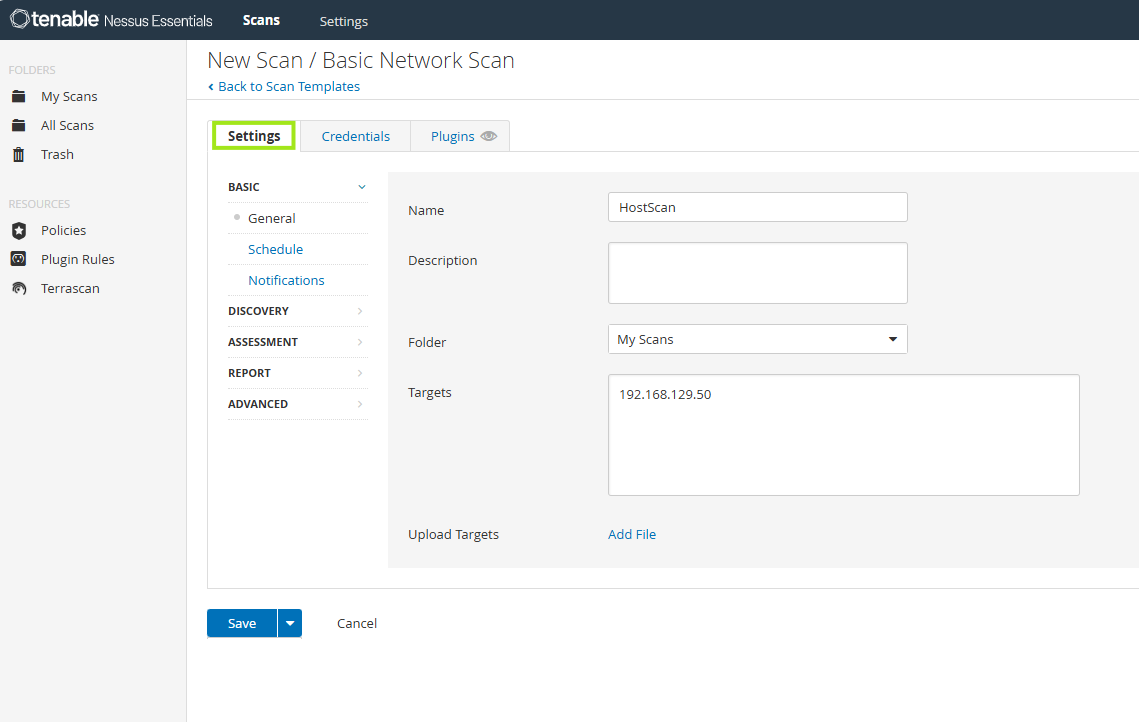
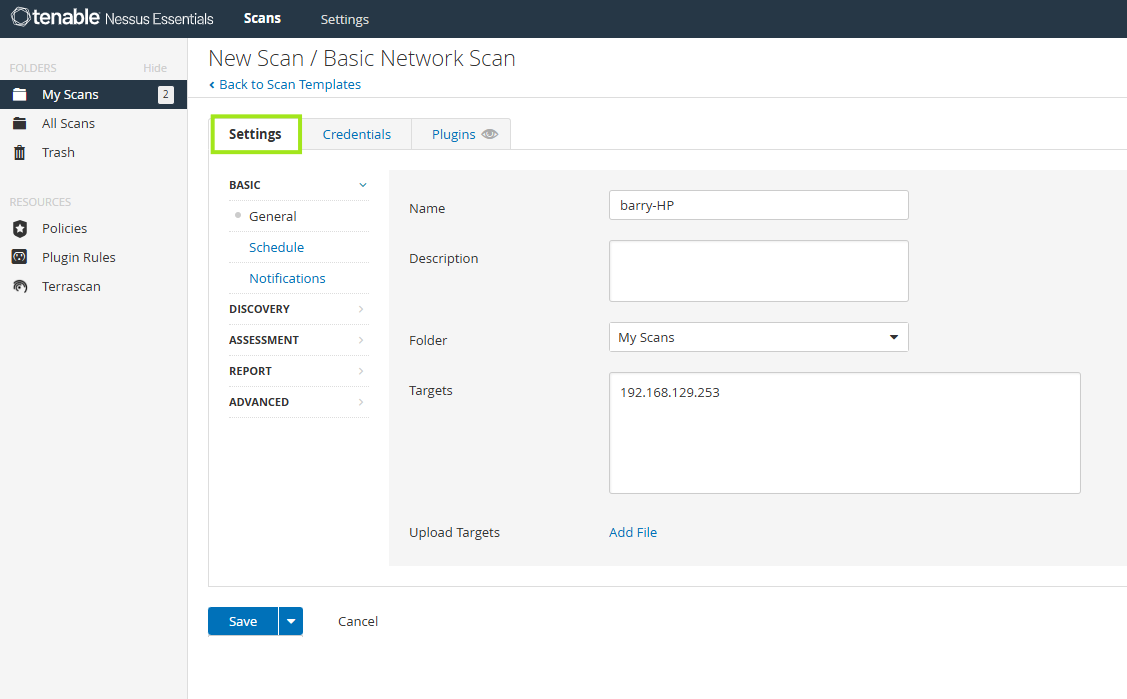
Vulnerability

diff --git a/Vulnerability/Nessus/README.md b/Vulnerability/Nessus/README.md
@@ -3,23 +3,54 @@
 ```sh
 docker pull tenable/nessus:latest-ubuntu
 
-docker volume create nessus_data 
-docker run -d --name nessus --hostname nessus -v nessus_data:/opt/nessus -p 8834:8834 tenable/nessus:latest-ubuntu
+docker volume create nessus_data
 
-https://localhost:8834
+docker run -d \
+  --name nessus \
+  --hostname nessus \
+  -v nessus_data:/opt/nessus \
+  -p 8834:8834 \
+  tenable/nessus:latest-ubuntu
+
+https://<IP>:8834
 ```
 
-```sh
-docker pull immauss/openvas:latest
-docker volume create openvas_data
-docker run -d --name openvas --hostname openvas -v openvas_data:/data -p 9392:9392 immauss/openvas:latest
-```
+![Nessus](/Vulnerability/Nessus/assets/01.png)
 
-```sh
-docker pull splunk/splunk:latest
+![Nessus](/Vulnerability/Nessus/assets/02.png)
 
-docker volume create splunk_etc
-docker volume create splunk_var
+![Nessus](/Vulnerability/Nessus/assets/03.png)
 
-docker run -d --name splunk --hostname splunk-yt-indexer -p 8000:8000 -e SPLUNK_START_ARGS="--accept-license" -e SPLUNK_PASSWORD="test1234" -v splunk_etc:/opt/splunk/etc -v splunk_var:/opt/splunk/var splunk/splunk:latest
-```
+![Nessus](/Vulnerability/Nessus/assets/04.png)
+
+![Nessus](/Vulnerability/Nessus/assets/05.png)
+
+![Nessus](/Vulnerability/Nessus/assets/06.png)
+
+![Nessus](/Vulnerability/Nessus/assets/07.png)
+
+# Host Scan
+
+![Nessus](/Vulnerability/Nessus/assets/08.png)
+
+![Nessus](/Vulnerability/Nessus/assets/09.png)
+
+![Nessus](/Vulnerability/Nessus/assets/10.png)
+
+![Nessus](/Vulnerability/Nessus/assets/11.png)
+
+![Nessus](/Vulnerability/Nessus/assets/12.png)
+
+![Nessus](/Vulnerability/Nessus/assets/12-1.png)
+
+# Network Scan
+
+![Nessus](/Vulnerability/Nessus/assets/13.png)
+
+![Nessus](/Vulnerability/Nessus/assets/14.png)
+
+## Useful Resources
+
+- CVE Details – Vulnerability Database [https://www.cvedetails.com/](https://www.cvedetails.com/)
+- Tenable Nessus Documentation [https://docs.tenable.com/nessus/Content/GettingStarted.htm](https://docs.tenable.com/nessus/Content/GettingStarted.htm)
+- Tenable Nessus Docker Hub [https://hub.docker.com/r/tenable/nessus](https://hub.docker.com/r/tenable/nessus)

diff --git a/Vulnerability/OpenVAS/README.md b/Vulnerability/OpenVAS/README.md
@@ -1,16 +1,63 @@
 # OpenVAS Scanner
 
-# OpenVAS Installation
+- Official Documentation: [https://greenbone.github.io/docs/latest/22.4/container/index.html](https://greenbone.github.io/docs/latest/22.4/container/index.html)
+
+# OpenVAS Installation via Docker
 
 ```sh
-sudo apt install gvm
+mkdir openvas && cd openvas
+
+curl -f -L https://greenbone.github.io/docs/latest/_static/docker-compose-22.4.yml -o docker-compose.yml
+
+nano docker-compose.yml
+ports:
+  # Change this line:
+  - "127.0.0.1:9392:80"
+  # To:
+  - "0.0.0.0:9392:80"
+
+docker compose up -d
+docker-compose ps
+
+http://<your-ip>:9392
+```
+
+# OpenVAS Installation (Native on Linux)
+
+### Update and Install
+
+```sh
+sudo apt update && sudo apt upgrade -y
+sudo apt install gvm -y
+```
+
+### Run Initial Setup
+
+```sh
 sudo gvm-setup
+```
+
+### Verify Setup
+
+```sh
 sudo gvm-check-setup
 ```
 
-https://<IP>:9392
+### Start GVM
 
 ```sh
-gvm-cli --gmp-username admin --gmp-password motdepasse create_task \
---name "Scan LAN" --target 192.168.1.100 --scan_config "Full and fast"
+sudo gvm-start
 ```
+
+### Retrieve Admin Password
+
+```sh
+sudo cat /var/lib/gvm/.local/share/gvm/gvmd/password
+```
+
+### Access the Web UI
+
+```sh
+https://127.0.0.1:9392
+```
+

diff --git a/Vulnerability/README.md b/Vulnerability/README.md
@@ -1,5 +1,2 @@
 # Vulnerability Management
 
-#### Description
-
-- Ce projet, « Analyse des vulnérabilités pour les analystes SOC » vise à doter les analystes des centres d'opérations de sécurité (SOC) des connaissances et compétences essentielles pour gérer efficacement les vulnérabilités de l'environnement informatique d'une organisation. Ce projet couvre l'analyse des vulnérabilités à l'aide d'outils reconnus tels qu'OpenVAS, Nmap et Nessus, ainsi que l'évaluation des risques liés aux vulnérabilités, l'élaboration de stratégies de traitement et la mise en œuvre de pratiques de gestion continue des vulnérabilités.
